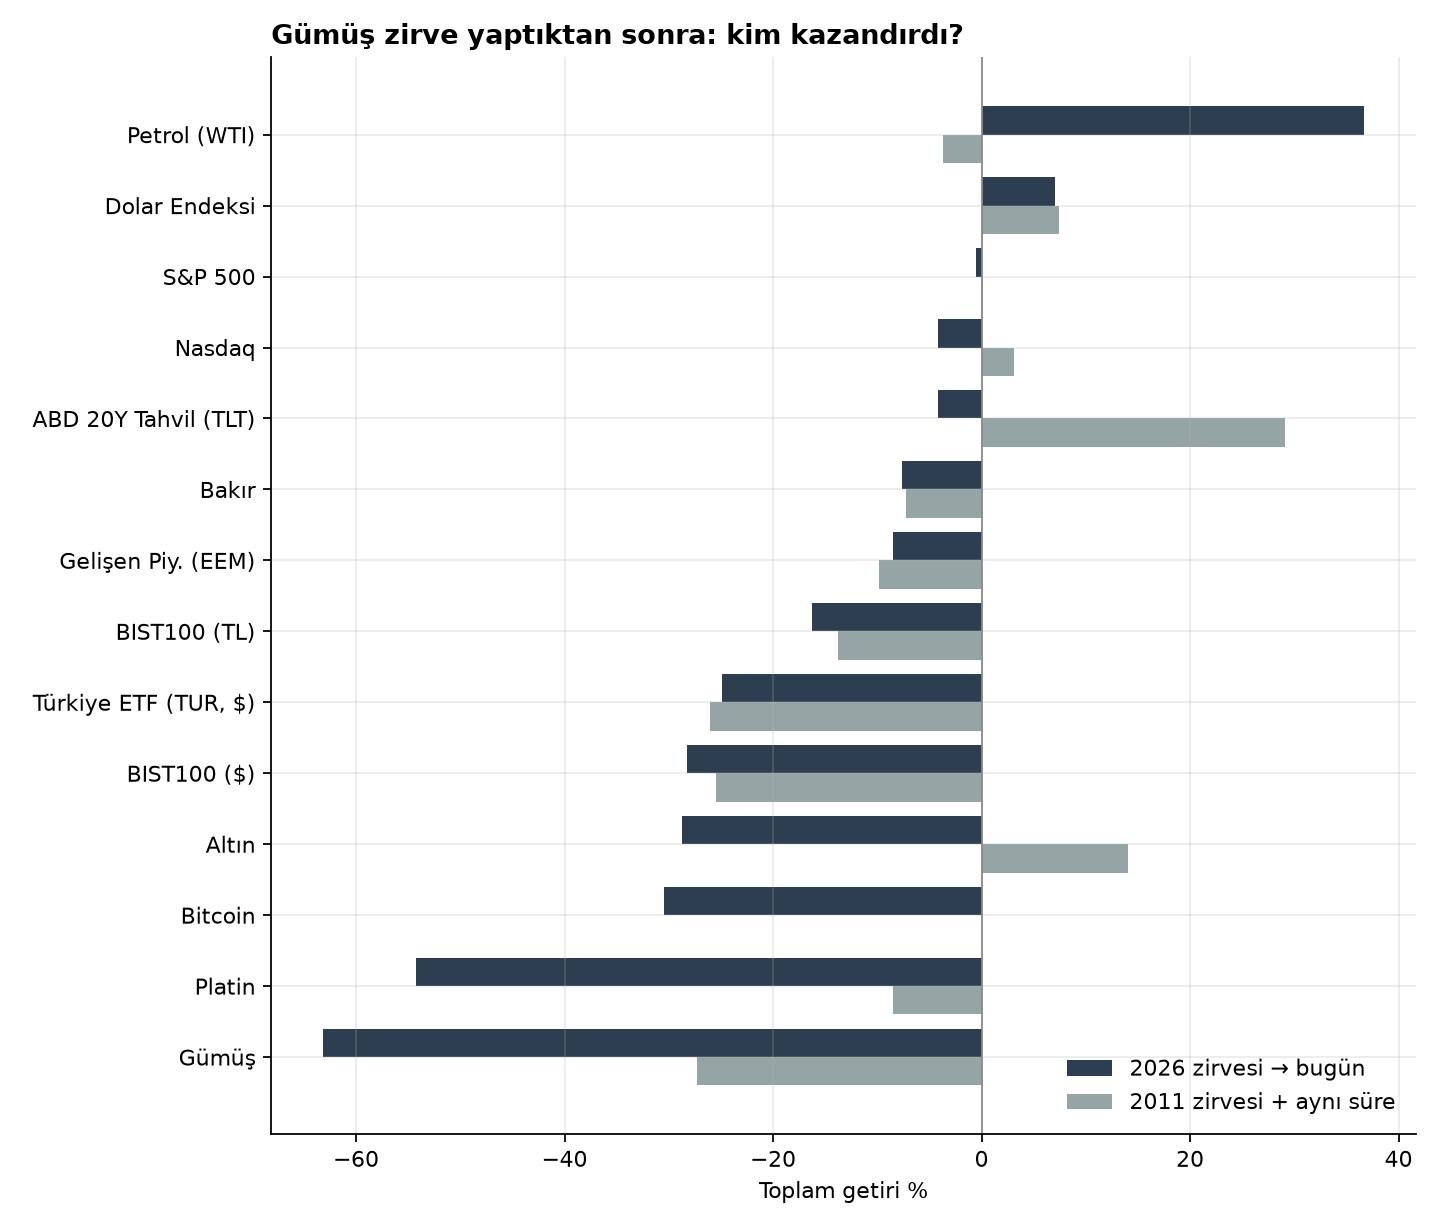
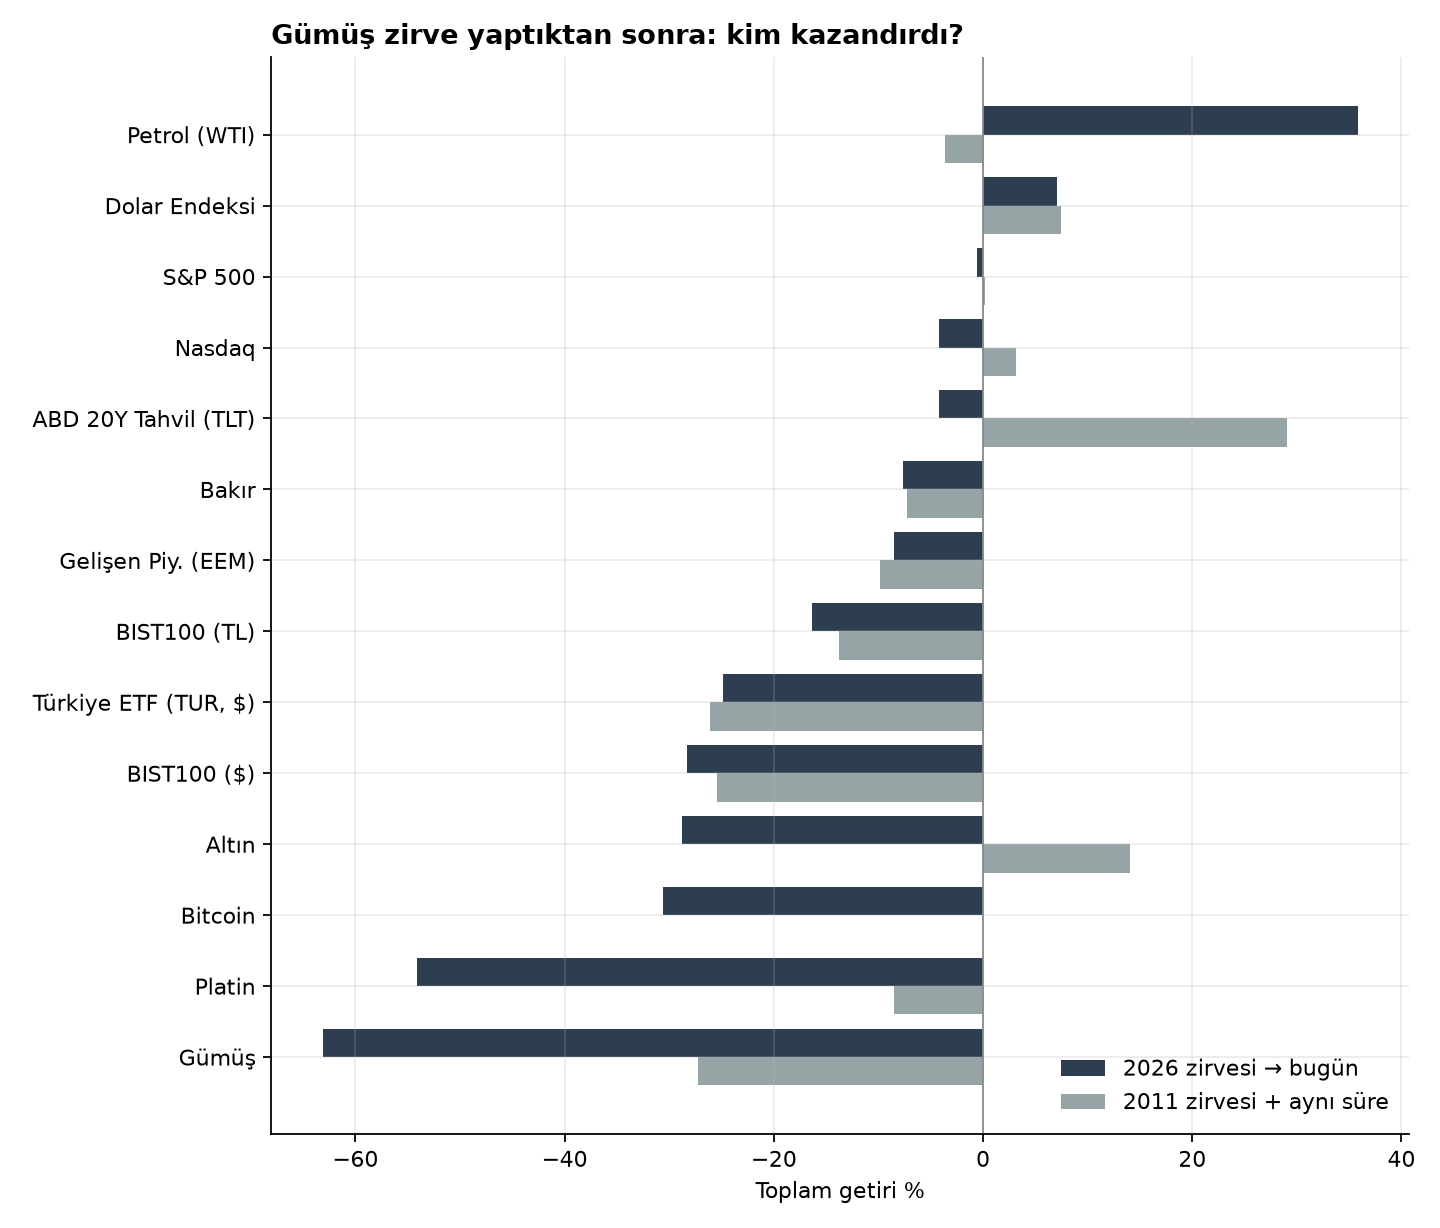
sonuclar 2026-11-23T11:19:37Z (actions)

Changed region(s): [[0.7812, 0.8664, 0.9688, 0.9593], [0.5312, 0.9283, 0.6562, 0.9902], [0.9688, 0.9283, 1.0, 0.9593]]

diff --git a/sonuclar/fazlar/rapor.md b/sonuclar/fazlar/rapor.md
@@ -1,0 +1,41 @@
+# Backtest #2 — zirveden sonraki döngü (2026-11-23T11:19:37+00:00)
+
+## Gümüş fazları (zigzag ±%25, haftalık)
+
+| başlangıç | bitiş | faz | gümüş | süre (ay) | Altın | Bakır | Petrol (WTI) | Nasdaq | S&P 500 | BIST100 ($) | Türkiye ETF (TUR, $) | ABD 20Y Tahvil (TLT) | Dolar Endeksi | Bitcoin |
+|---|---|---|---|---|---|---|---|---|---|---|---|---|---|---|
+| 2001-11-23 | 2004-04-02 | yükseliş | +102% | 28.3 | +54% | +100% | +81% | +8% | -1% | — | — | — | -25% | — |
+| 2004-04-02 | 2004-05-07 | düşüş | -31% | 1.1 | -10% | -12% | +16% | -7% | -4% | — | — | -6% | +3% | — |
+| 2004-05-07 | 2006-05-12 | yükseliş | +153% | 24.1 | +88% | +233% | +80% | +17% | +18% | — | — | +11% | -8% | — |
+| 2006-05-12 | 2006-06-16 | düşüş | -29% | 1.1 | -19% | -15% | -3% | -5% | -3% | -29% | — | +2% | +2% | — |
+| 2006-06-16 | 2008-03-14 | yükseliş | +104% | 20.9 | +73% | +14% | +58% | +4% | +3% | +61% | — | +22% | -17% | — |
+| 2008-03-14 | 2008-09-12 | düşüş | -48% | 6.0 | -24% | -17% | -8% | +2% | -3% | -13% | — | +2% | +10% | — |
+| 2008-09-12 | 2008-09-26 | yükseliş | +25% | 0.5 | +16% | -4% | +6% | -3% | -3% | -1% | -2% | -0% | -3% | — |
+| 2008-09-26 | 2008-10-24 | düşüş | -31% | 0.9 | -17% | -46% | -40% | -29% | -28% | -51% | -53% | +3% | +12% | — |
+| 2008-10-24 | 2011-04-29 | yükseliş | +423% | 30.1 | +113% | +149% | +78% | +85% | +56% | +212% | +246% | +7% | -16% | — |
+| 2011-04-29 | 2011-07-01 | düşüş | -31% | 2.1 | -5% | +3% | -17% | -2% | -2% | -14% | -13% | +1% | +2% | — |
+| 2011-07-01 | 2011-09-02 | yükseliş | +28% | 2.1 | +26% | -4% | -9% | -12% | -12% | -17% | -21% | +21% | +1% | — |
+| 2011-09-02 | 2011-12-30 | düşüş | -35% | 3.9 | -16% | -16% | +14% | +5% | +7% | -17% | -13% | +9% | +7% | — |
+| 2011-12-30 | 2012-02-24 | yükseliş | +27% | 1.8 | +13% | +13% | +11% | +14% | +9% | +27% | +24% | -3% | -2% | — |
+| 2012-02-24 | 2013-07-05 | düşüş | -47% | 16.3 | -32% | -20% | -6% | +17% | +19% | +11% | +14% | -6% | +8% | — |
+| 2013-07-05 | 2013-09-06 | yükseliş | +27% | 2.1 | +14% | +6% | +7% | +5% | +1% | -14% | -11% | -3% | -3% | — |
+| 2013-09-06 | 2016-01-01 | düşüş | -42% | 27.8 | -24% | -35% | -66% | +37% | +23% | -24% | -24% | +25% | +20% | — |
+| 2016-01-01 | 2016-07-29 | yükseliş | +47% | 6.9 | +27% | +4% | +12% | +3% | +6% | +2% | +6% | +19% | -3% | +45% |
+| 2016-07-29 | 2018-09-14 | düşüş | -31% | 25.5 | -11% | +18% | +66% | +55% | +34% | -38% | -38% | -12% | -1% | +943% |
+| 2018-09-14 | 2020-02-21 | yükseliş | +32% | 17.2 | +38% | -0% | -23% | +20% | +15% | +24% | +27% | +29% | +5% | +52% |
+| 2020-02-21 | 2020-03-20 | düşüş | -33% | 0.9 | -10% | -16% | -58% | -28% | -31% | -31% | -34% | +8% | +4% | -41% |
+| 2020-03-20 | 2021-06-11 | yükseliş | +128% | 14.7 | +27% | +107% | +216% | +105% | +84% | +32% | +37% | -9% | -12% | +571% |
+| 2021-06-11 | 2022-09-02 | düşüş | -37% | 14.7 | -8% | -25% | +23% | -17% | -8% | +2% | +1% | -21% | +21% | -49% |
+| 2022-09-02 | 2026-01-23 | yükseliş | +468% | 40.7 | +189% | +73% | -30% | +102% | +76% | +69% | +89% | -9% | -11% | +333% |
+| 2026-01-23 | 2026-11-20 (teyitsiz) | düşüş | -59% | 9.9 | -29% | -7% | +38% | -4% | -0% | -27% | -24% | -4% | +6% | -29% |
+
+## 2011 döngüsü
+- Zirve 2011-04-29 $48.58 → dip 2015-12-14 $13.67 (-72%, 4.6 yıl)
+- Dipten sonraki 12 ay: +26%
+- 2011 zirvesinin geri alınması: 2025-10-08 (14.4 yıl)
+
+## Bugünü 2011'e hizalama
+- **zaman**: 2011'de 2012-02-24 (zirveden 10.2 ay, -27%); 2011 döngü dibine kalan -61% (47.2 ay sonra), o noktadan 2011 zirvesine dönüş 14.1 yıl
+- **derinlik**: 2011'de 2014-09-19 (zirveden 42.1 ay, -63%); 2011 döngü dibine kalan -23% (15.3 ay sonra), o noktadan 2011 zirvesine dönüş 11.4 yıl
+
+Geçmişin kaydıdır, tahmin değildir. Yatırım tavsiyesi değildir.

diff --git a/sonuclar/backtest/rapor.md b/sonuclar/backtest/rapor.md
@@ -1,4 +1,4 @@
-# Döngü backtest #1 — 2026-11-23T10:52:24+00:00
+# Döngü backtest #1 — 2026-11-23T11:19:33+00:00
 
 ## A) Gümüş 2011 ↔ 2026
 - Zirve 2011: 2011-04-29 $48.58 · Zirve 2026: 2026-01-26 $115.08
@@ -64,18 +64,18 @@
 | varlık | 2011 zirvesi + aynı süre | 2026 zirvesi → bugün | 2011 zirvesi → 2015 dibi |
 |---|---|---|---|
 | Gümüş | -27.3% | -63.1% | -71.9% |
-| Altın | +14.1% | -28.8% | -31.6% |
+| Altın | +14.1% | -28.7% | -31.6% |
 | Bakır | -7.3% | -7.7% | -49.5% |
-| Platin | -8.5% | -54.3% | -54.6% |
-| Petrol (WTI) | -3.7% | +36.7% | -68.1% |
+| Platin | -8.5% | -54.1% | -54.6% |
+| Petrol (WTI) | -3.7% | +35.8% | -68.1% |
 | Nasdaq | +3.1% | -4.2% | +72.3% |
 | S&P 500 | +0.2% | -0.6% | +48.3% |
-| BIST100 (TL) | -13.7% | -16.3% | +0.1% |
+| BIST100 (TL) | -13.7% | -16.4% | +0.1% |
 | Türkiye ETF (TUR, $) | -26.1% | -24.9% | -45.4% |
 | Gelişen Piy. (EEM) | -9.9% | -8.5% | -29.9% |
 | ABD 20Y Tahvil (TLT) | +29.1% | -4.2% | +49.0% |
-| Dolar Endeksi | +7.4% | +7.0% | +33.8% |
-| Bitcoin | — | -30.5% | — |
-| BIST100 ($) | -25.4% | -28.2% | -48.6% |
+| Dolar Endeksi | +7.4% | +7.1% | +33.8% |
+| Bitcoin | — | -30.6% | — |
+| BIST100 ($) | -25.4% | -28.3% | -48.6% |
 
 Geçmişin kaydıdır, tahmin değildir. Yatırım tavsiyesi değildir.
